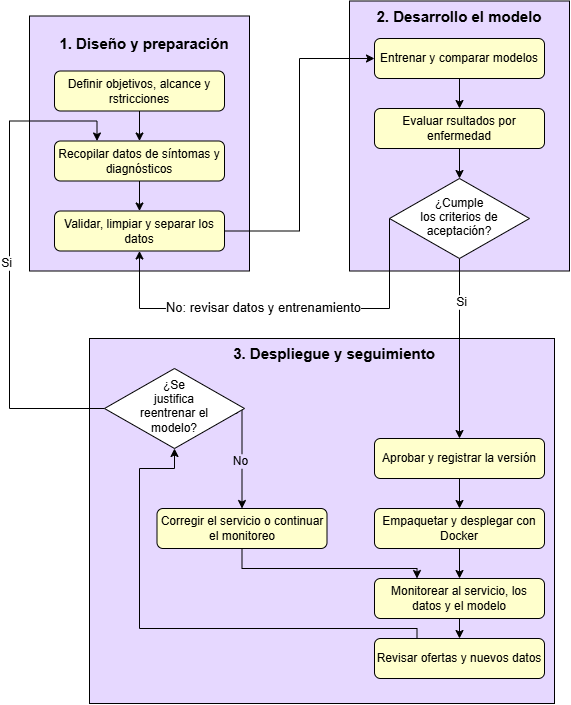
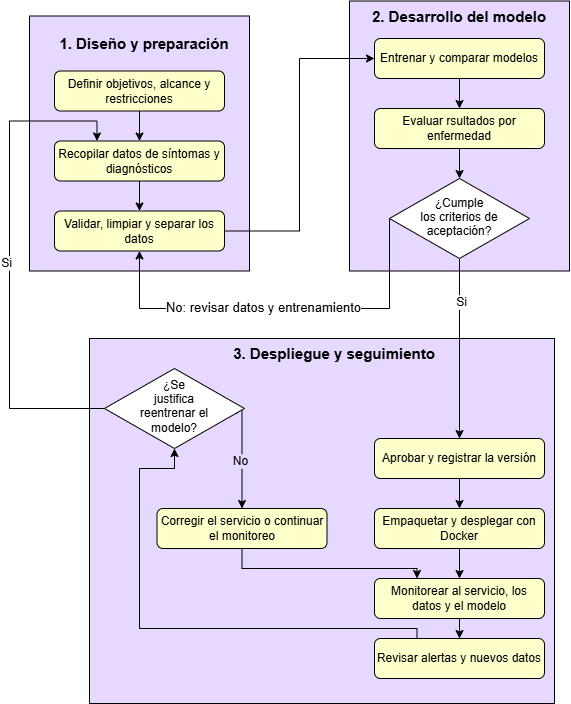
Corrige las instrucciones de Docker y precisa el pipeline

diff --git a/pipeline.md b/pipeline.md
@@ -18,13 +18,17 @@ El modelo propuesto serviría como apoyo al personal médico. Para la segunda pa
 Se definen el objetivo, las variables de entrada y los criterios de aceptación.
 Se recopilan registros autorizados con síntomas y diagnósticos confirmados.
 Se revisan los valores faltantes y los duplicados, se protege la identidad de los pacientes y se separan los datos por paciente en conjuntos de entrenamiento, validación y prueba.
+Los datos de entrada incluirían síntomas reportados, su duración y mediciones disponibles. 
+Los diagnósticos confirmados en registros clínicos autorizados se usarían como etiquetas durante el entrenamiento y la evaluación.
 
 ### Desarrollo del modelo
 
 Se entrenan y comparan modelos de clasificación. Para abordar el desbalance, se pueden probar pesos por clase durante el entrenamiento. Se evalúa el desempeño por enfermedad, ya que una buena exactitud global puede ocultar errores en clases con pocos casos. Si el modelo no cumple los criterios de aceptación, se revisan los datos y el entrenamiento.
+Se usaría una regresión logística como referencia y se compararía con un bosque aleatorio. En un conjunto de prueba separado por paciente se medirían la precisión y la sensibilidad por enfermedad. 
+Los criterios de aceptación se acordarían antes de evaluar. Si hay muy pocos casos de una enfermedad huérfana para estimar el desempeño con confianza, se recopilarían más casos antes de aprobar el modelo para esa enfermedad.
 
 ### Despliegue y seguimiento
 
 La versión aprobada se registra, se empaqueta con Docker y se despliega como servicio. Se monitorean los errores, los tiempos de respuesta y los cambios en los datos de entrada. Cuando se obtienen diagnósticos confirmados, se comparan con las predicciones. Si la revisión justifica reentrenar, se vuelve a la etapa de datos y se evalúa la nueva versión antes de desplegarla.
-
+Una alerta llevaría a revisar primero los datos, el servicio y el desempeño del modelo. Si se justifica reentrenar, la nueva versión tendría que superar los mismos criterios de aceptación antes de reemplazar a la anterior.
 Durante todo el proceso se documentan las versiones de los datos, el código y el modelo para que los resultados puedan reproducirse.

diff --git a/README.md b/README.md
@@ -11,7 +11,7 @@ Tener Docker en ejecución. En Windows, abrimos Docker Desktop y verificamos con
 
 Abrimos una terminal en la carpeta que contiene el `Dockerfile` y ejecutamos en PowerShell:
 
-**docker build -t clasificador-mlops:1.0**
+**docker build -t clasificador-mlops:1.0 .**
 
 Ahi se indica que Docker debe usar la carpeta actual para construir la imagen.
 
